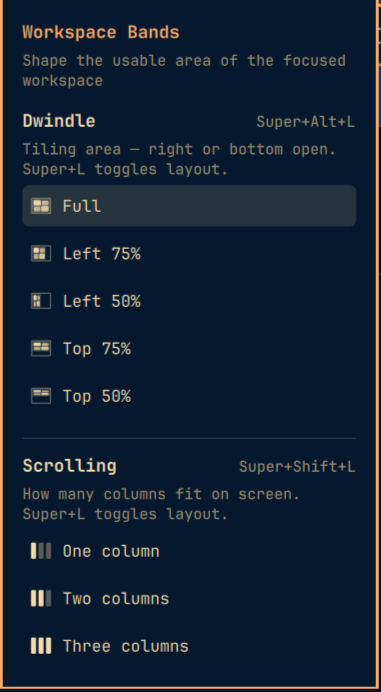
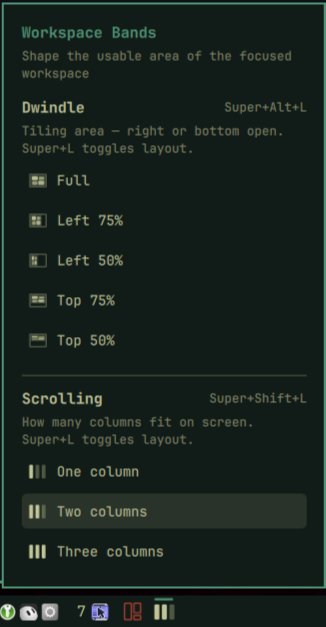
Expand marketplace description and refresh preview for 1.4.0.
Spells out dwindle bands, scrolling columns, and keybinds so installers know what they get.

Changed region(s): [[0.0, 0.0, 1.0, 1.0], [0.5828, 0.0606, 0.9202, 0.1212]]

diff --git a/README.md b/README.md
@@ -1,9 +1,12 @@
 # Workspace Bands
 
-Omarchy bar widget by **Agile Automation** for shaping the focused workspace:
+Omarchy bar widget by **Agile Automation** for shaping the focused workspace.
 
-- **Dwindle:** side-locked tiling bands (left / top at 50% or 75% — right or bottom stays open)
-- **Scrolling:** one / two / three column density
+**Dwindle** locks tiling into a left or top band at 50% or 75%, so the right or bottom of the screen stays open for floating windows, reference apps, or empty space. Options: Full, Left 75%, Left 50%, Top 75%, Top 50%.
+
+**Scrolling** sets how many columns fit on screen — one, two, or three — and updates existing columns live (`colresize all`).
+
+Both modes are **key-driven** as well as clickable: open the dropdown from the bar icon, or cycle without leaving the keyboard.
 
 ![Workspace Bands dropdown — Dwindle bands and Scrolling columns](preview.png)
 
